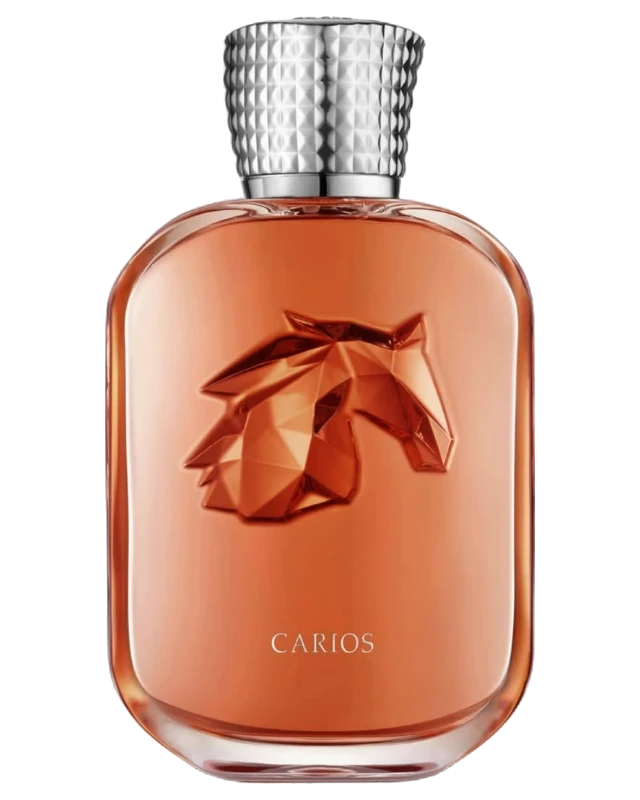
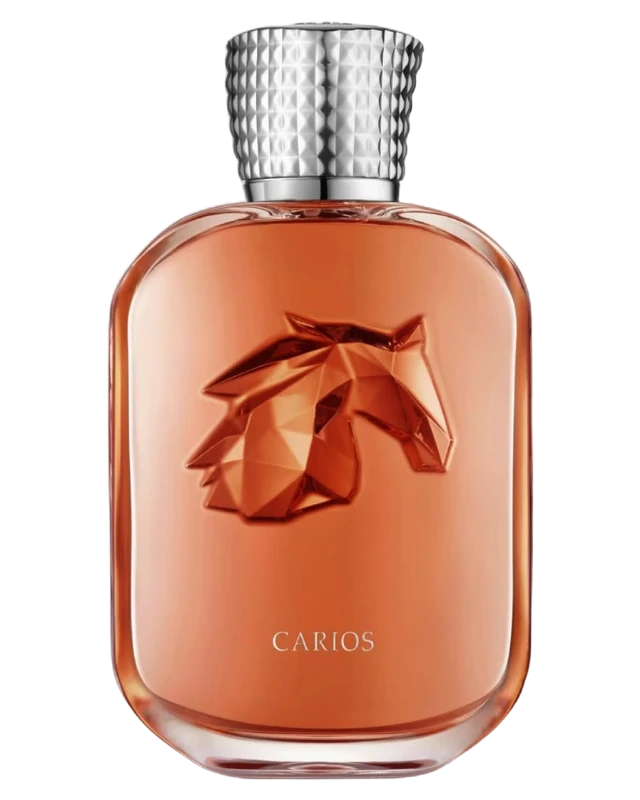
Чистая вырезка всех флаконов нейросетью, центровка, сердечко в карточках

diff --git a/index.html b/index.html
@@ -15,7 +15,7 @@
 <meta property="og:description" content="Каталог ароматов, выбор объёма от 6 до 50 мл, подбор аромата и заказ в Direct. Третий флакон в подарок.">
 <meta property="og:image" content="https://parfumhouse26.github.io/icon-512.png">
 <meta property="og:url" content="https://parfumhouse26.github.io/">
-<script>window.APP_VERSION = '659fe4d0c8';</script>
+<script>window.APP_VERSION = '6f5fef2f99';</script>
 <link rel="manifest" href="manifest.webmanifest">
 <link rel="apple-touch-icon" href="apple-touch-icon.png">
 <link rel="icon" type="image/png" sizes="32x32" href="favicon-32.png">
@@ -177,9 +177,9 @@ main{display:block}
 .card .pr{margin-top:auto;padding-top:10px;display:flex;align-items:baseline;justify-content:space-between;gap:8px}
 .card .pr b{font-weight:500;font-size:15px}
 .card .pr span{font:400 11px var(--f-mono);color:var(--muted)}
-.tag{position:absolute;left:10px;top:10px;font:500 9.5px/1 var(--f-mono);letter-spacing:.14em;text-transform:uppercase;padding:5px 7px;border-radius:3px;background:var(--ink);color:var(--bg)}
-.fav{position:absolute;right:6px;top:6px;width:38px;height:38px;display:grid;place-items:center;border-radius:50%;color:var(--ink)}
-.fav svg{width:20px;height:20px;fill:none;stroke:currentColor;stroke-width:1.5}
+.tag{position:absolute;left:10px;top:12px;z-index:2;font:500 9px/1 var(--f-mono);letter-spacing:.12em;text-transform:uppercase;padding:5px 6px;border-radius:3px;background:var(--ink);color:var(--bg)}
+.fav{position:absolute;right:6px;top:6px;z-index:2;width:36px;height:36px;display:grid;place-items:center;border-radius:50%;color:var(--ink);background:color-mix(in srgb,var(--surface) 72%,transparent);-webkit-backdrop-filter:blur(6px);backdrop-filter:blur(6px)}
+.fav svg{width:19px;height:19px;fill:none;stroke:currentColor;stroke-width:1.5}
 .fav[aria-pressed="true"] svg{fill:var(--accent);stroke:var(--accent)}
 .grid{display:grid;grid-template-columns:repeat(auto-fill,minmax(180px,1fr));gap:14px}
 @media (max-width:520px){.card .pr span{display:none}.card .pr b{white-space:nowrap}.grid{grid-template-columns:repeat(2,minmax(0,1fr));gap:10px}.card .nm{font-size:17px}.card .info{padding:10px 11px 12px}}
@@ -217,7 +217,8 @@ main{display:block}
 
 /* product photos: cut-out bottles (transparent webp) */
 .ph{height:86%;width:auto;max-width:100%;object-fit:contain;filter:drop-shadow(0 10px 12px var(--shadow));user-select:none;-webkit-user-drag:none}
-.card .stage .ph{transition:transform .35s cubic-bezier(.2,.7,.2,1)}
+.card .stage .ph{position:absolute;left:12px;top:44px;width:calc(100% - 24px);height:calc(100% - 54px);object-fit:contain;object-position:50% 100%;transition:transform .35s cubic-bezier(.2,.7,.2,1)}
+.qitem .st .ph,.line .st .ph{height:90%;width:90%;object-fit:contain}
 .card:hover .stage .ph{transform:translateY(-4px)}
 .pstage{position:relative;overflow:hidden;-webkit-tap-highlight-color:transparent}
 .pwrap{position:absolute;left:50%;bottom:5%;height:88%;aspect-ratio:4/5;translate:-50% 0;transition:scale .45s cubic-bezier(.2,.8,.2,1);cursor:pointer;filter:drop-shadow(0 18px 22px var(--shadow))}

diff --git a/sw.js b/sw.js
@@ -1,4 +1,4 @@
-const CACHE = 'ph26-659fe4d0c8';
+const CACHE = 'ph26-6f5fef2f99';
 const CORE = ['./', 'index.html', 'manifest.webmanifest', 'icon-192.png', 'icon-512.png', 'apple-touch-icon.png'];
 self.addEventListener('install', e => { e.waitUntil(caches.open(CACHE).then(c => c.addAll(CORE))); self.skipWaiting(); });
 self.addEventListener('activate', e => {
